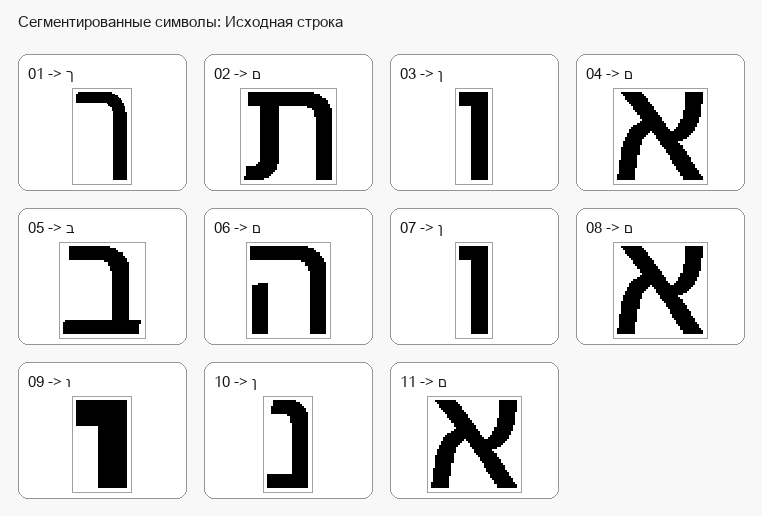
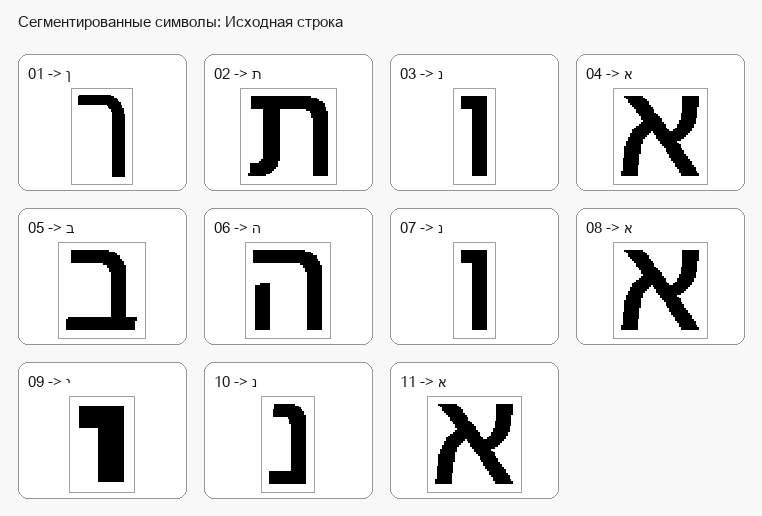
fixing 7 lab

diff --git a/lab7/report.md b/lab7/report.md
@@ -22,19 +22,20 @@
    - масса;
    - нормированные координаты центра тяжести;
    - нормированные осевые моменты инерции.
-4. Для каждого символа строки рассчитаны меры близости со всеми `27` символами алфавита.
-5. Для каждого сегмента сформированы и отсортированы гипотезы распознавания.
-6. Лучшие гипотезы собраны в итоговую строку.
-7. Посчитаны:
+4. Для повышения качества дополнительно вычислены нормированные отсчеты вертикального и горизонтального профилей символа.
+5. Для каждого символа строки рассчитаны меры близости со всеми `27` символами алфавита.
+6. Для каждого сегмента сформированы и отсортированы гипотезы распознавания.
+7. Лучшие гипотезы собраны в итоговую строку.
+8. Посчитаны:
    - количество ошибок;
    - доля верно распознанных символов.
-8. Проведен эксперимент с тем же текстом при другом размере шрифта.
+9. Проведен эксперимент с тем же текстом при другом размере шрифта.
 
 ### Теория
 
 #### 1. Признаковое пространство
 
-Каждый символ задаётся вектором признаков:
+Базовое признаковое описание символа:
 
 `F = (m, xc, yc, Ix, Iy)`
 
@@ -77,6 +78,13 @@
 `Iy_norm = Iy / (M * N)`
 
 `Ix_norm = Ix / (M * N)`
+
+Для улучшения разделения похожих символов в признаковое описание также добавлены:
+
+- `px1 ... px8` — нормированные отсчеты вертикального профиля;
+- `py1 ... py8` — нормированные отсчеты горизонтального профиля.
+
+Профили перед сравнением равномерно пересчитываются к `8` отсчетам, после чего участвуют в той же евклидовой мере близости как дополнительные признаки.
 
 #### 2. Простейший алгоритм классификации символов
 
@@ -121,18 +129,20 @@
 
 ### Выполнение
 
-1. Из `lab5/results/summary.csv` загружены эталонные признаки всех `27` символов алфавита.
+1. Из `lab5/results/summary.csv` загружены эталонные скалярные признаки всех `27` символов алфавита.
 2. Из `lab6/hebrew_romantic_phrase_mono.bmp` загружено исходное бинарное изображение строки.
 3. По профилям повторно выполнены:
    - выделение текстовой области;
    - выделение строки;
    - сегментация символов.
-4. Для каждого символа строки вычислены признаки по тем же формулам, что использовались в `lab5`.
-5. Для каждого сегмента строки рассчитаны расстояния до всех эталонов.
-6. По полученным расстояниям построены меры близости и сформированы гипотезы.
-7. Из первого столбца гипотез собрана результирующая строка.
-8. Результат сравнен со строкой `אניאוהבאותך`.
-9. Дополнительно сформировано новое изображение той же строки с размером шрифта `68`, после чего для него повторены сегментация и классификация.
+4. Каждый символ строки приведен к тому же виду, что и эталоны из `lab5`, после чего по нему вычислены скалярные признаки.
+5. Для каждого символа дополнительно вычислены нормированные вертикальный и горизонтальный профили, равномерно пересчитанные к `8` отсчетам.
+6. Скалярные и профильные признаки объединены в общее описание символа.
+7. Для каждого сегмента строки рассчитаны расстояния до всех эталонов.
+8. По полученным расстояниям построены меры близости и сформированы гипотезы.
+9. Из первого столбца гипотез собрана результирующая строка.
+10. Результат сравнен со строкой `אניאוהבאותך`.
+11. Дополнительно сформировано новое изображение той же строки с размером шрифта `68`, после чего для него повторены сегментация и классификация.
 
 ### Сводка
 
@@ -142,11 +152,11 @@
 | Размер шрифта | Исходное изображение | `68` |
 | Число эталонов | `27` | `27` |
 | Число символов строки | `11` | `11` |
-| Лучшая строка без пробелов | `םןוםןםבםןםך` | `אאאניוהבותך` |
+| Лучшая строка без пробелов | `אניאנהבאנתן` | `אאאניוהבותך` |
 | Эталонная строка без пробелов | `אניאוהבאותך` | `אניאוהבאותך` |
-| Ошибок | `9` | `7` |
-| Верно распознано | `2` | `4` |
-| Доля верных символов | `18.181818 %` | `36.363636 %` |
+| Ошибок | `3` | `7` |
+| Верно распознано | `8` | `4` |
+| Доля верных символов | `72.727273 %` | `36.363636 %` |
 
 ### Результаты распознавания исходной строки
 
@@ -166,24 +176,24 @@
 
 | № | Ожидаемый символ | 1-я гипотеза | `S1` | 2-я гипотеза | `S2` | 3-я гипотеза | `S3` |
 | --- | --- | --- | --- | --- | --- | --- | --- |
-| `01` | `ך` | `ך` | `0.589136` | `ן` | `0.585560` | `ף` | `0.514550` |
-| `02` | `ת` | `ם` | `0.553833` | `ת` | `0.545182` | `מ` | `0.538813` |
-| `03` | `ו` | `ן` | `0.702082` | `ך` | `0.576089` | `נ` | `0.568754` |
-| `04` | `א` | `ם` | `0.696270` | `ש` | `0.673925` | `מ` | `0.663676` |
-| `05` | `ב` | `ב` | `0.637986` | `ם` | `0.624777` | `כ` | `0.614793` |
-| `06` | `ה` | `ם` | `0.647178` | `מ` | `0.637160` | `ת` | `0.633298` |
-| `07` | `ו` | `ן` | `0.702082` | `ך` | `0.576089` | `נ` | `0.568754` |
-| `08` | `א` | `ם` | `0.696270` | `ש` | `0.673925` | `מ` | `0.663676` |
-| `09` | `י` | `ו` | `0.842511` | `י` | `0.716389` | `ר` | `0.707260` |
-| `10` | `נ` | `ן` | `0.586223` | `נ` | `0.580579` | `כ` | `0.545088` |
-| `11` | `א` | `ם` | `0.696270` | `ש` | `0.673925` | `מ` | `0.663676` |
+| `01` | `ך` | `ן` | `0.620706` | `ך` | `0.573509` | `ו` | `0.495648` |
+| `02` | `ת` | `ת` | `0.605088` | `מ` | `0.534252` | `ס` | `0.519150` |
+| `03` | `ו` | `נ` | `0.471004` | `ג` | `0.450667` | `ן` | `0.436343` |
+| `04` | `א` | `א` | `0.597510` | `ש` | `0.550103` | `ס` | `0.533964` |
+| `05` | `ב` | `ב` | `0.717063` | `כ` | `0.550466` | `צ` | `0.488056` |
+| `06` | `ה` | `ה` | `0.623196` | `ח` | `0.616961` | `מ` | `0.595131` |
+| `07` | `ו` | `נ` | `0.471004` | `ג` | `0.450667` | `ן` | `0.436343` |
+| `08` | `א` | `א` | `0.597510` | `ש` | `0.550103` | `ס` | `0.533964` |
+| `09` | `י` | `י` | `0.512628` | `ו` | `0.426981` | `ג` | `0.424817` |
+| `10` | `נ` | `נ` | `0.704362` | `כ` | `0.521453` | `ן` | `0.512664` |
+| `11` | `א` | `א` | `0.597510` | `ש` | `0.550103` | `ס` | `0.533964` |
 
 #### Итог по исходной строке
 
-- Лучшая строка без пробелов: `םןוםןםבםןםך`
+- Лучшая строка без пробелов: `אניאנהבאנתן`
 - Эталонная строка без пробелов: `אניאוהבאותך`
-- Ошибок: `9`
-- Доля верных символов: `18.181818 %`
+- Ошибок: `3`
+- Доля верных символов: `72.727273 %`
 
 Полные гипотезы сохранены в:
 
@@ -210,17 +220,17 @@
 
 | № | Ожидаемый символ | 1-я гипотеза | `S1` | 2-я гипотеза | `S2` | 3-я гипотеза | `S3` |
 | --- | --- | --- | --- | --- | --- | --- | --- |
-| `01` | `ך` | `ך` | `0.832492` | `ן` | `0.692479` | `ר` | `0.640856` |
-| `02` | `ת` | `ת` | `0.850871` | `ח` | `0.815916` | `ה` | `0.739349` |
-| `03` | `ו` | `ו` | `0.817263` | `ן` | `0.709358` | `ך` | `0.701313` |
-| `04` | `א` | `ב` | `0.871233` | `צ` | `0.777243` | `כ` | `0.761746` |
-| `05` | `ב` | `ה` | `0.852275` | `ח` | `0.821158` | `ת` | `0.763357` |
-| `06` | `ה` | `ו` | `0.817263` | `ן` | `0.709358` | `ך` | `0.701313` |
-| `07` | `ו` | `י` | `0.898083` | `ו` | `0.654743` | `ר` | `0.645305` |
-| `08` | `א` | `נ` | `0.805748` | `ן` | `0.662268` | `כ` | `0.653232` |
-| `09` | `י` | `א` | `0.863961` | `ע` | `0.816135` | `ט` | `0.807239` |
-| `10` | `נ` | `א` | `0.863961` | `ע` | `0.816135` | `ט` | `0.807239` |
-| `11` | `א` | `א` | `0.863961` | `ע` | `0.816135` | `ט` | `0.807239` |
+| `01` | `ך` | `ך` | `0.837075` | `ר` | `0.719006` | `ף` | `0.576188` |
+| `02` | `ת` | `ת` | `0.840550` | `מ` | `0.594729` | `ס` | `0.582332` |
+| `03` | `ו` | `ו` | `0.915889` | `ן` | `0.604767` | `י` | `0.540161` |
+| `04` | `א` | `ב` | `0.893252` | `כ` | `0.576536` | `ל` | `0.510065` |
+| `05` | `ב` | `ה` | `0.883659` | `ח` | `0.714209` | `ט` | `0.586860` |
+| `06` | `ה` | `ו` | `0.915889` | `ן` | `0.604767` | `י` | `0.540161` |
+| `07` | `ו` | `י` | `0.905513` | `ו` | `0.509015` | `ז` | `0.445232` |
+| `08` | `א` | `נ` | `0.727356` | `ג` | `0.541769` | `כ` | `0.526150` |
+| `09` | `י` | `א` | `0.844465` | `ע` | `0.610962` | `צ` | `0.549130` |
+| `10` | `נ` | `א` | `0.844465` | `ע` | `0.610962` | `צ` | `0.549130` |
+| `11` | `א` | `א` | `0.844465` | `ע` | `0.610962` | `צ` | `0.549130` |
 
 #### Итог по эксперименту
 
@@ -236,8 +246,8 @@
 
 ### Вывод
 
-В лабораторной работе выполнена классификация символов строки на основе массы, координат центра тяжести и осевых моментов инерции с использованием евклидова расстояния в пространстве нормализованных признаков.
+В лабораторной работе выполнена классификация символов строки на основе массы, координат центра тяжести, осевых моментов инерции и нормированных отсчетов вертикального и горизонтального профилей с использованием евклидова расстояния в пространстве нормализованных признаков.
 
-Для исходной строки из `lab6` сегментировано `11` символов, из которых верно распознано `2`, что соответствует точности `18.181818 %`. Для экспериментальной строки с размером шрифта `68` также получено `11` сегментов, из которых верно распознано `4`, что соответствует точности `36.363636 %`.
+Для исходной строки из `lab6` сегментировано `11` символов, из которых верно распознано `8`, что соответствует точности `72.727273 %`. Для экспериментальной строки с размером шрифта `68` также получено `11` сегментов, из которых верно распознано `4`, что соответствует точности `36.363636 %`.
 
-По результатам видно, что выбранный набор скалярных признаков позволяет формировать ранжированные гипотезы, однако для части символов иврита этого набора недостаточно для устойчивого отделения близких по геометрии букв. Это видно по близости оценок первых гипотез и по количеству ошибок в итоговой строке.
+Добавление профильных признаков заметно повысило качество распознавания исходной строки, так как позволило лучше различать символы с близкими скалярными характеристиками. При этом для строки другого размера шрифта распознавание остается менее устойчивым, что видно по количеству ошибок и по близости оценок первых гипотез.
